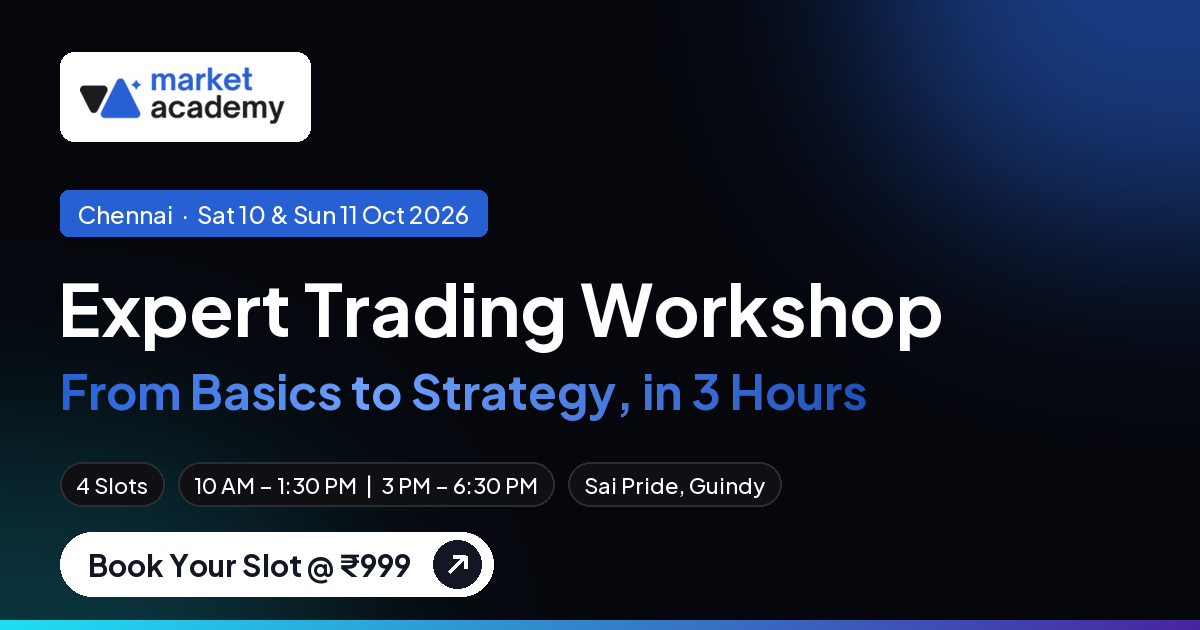
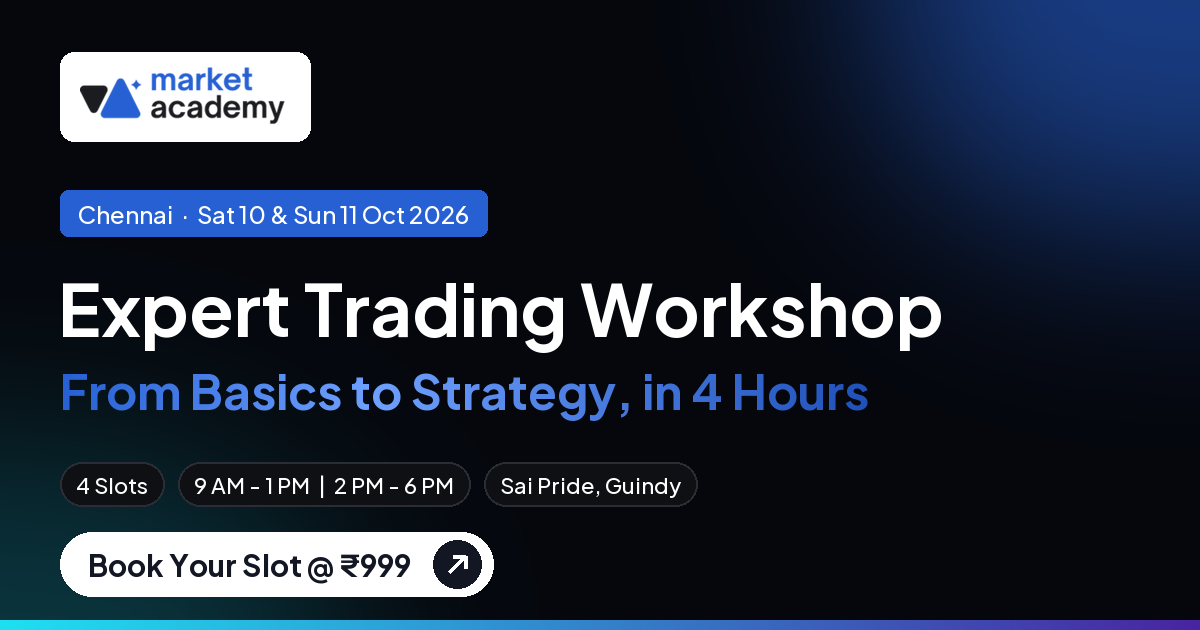
Make the workshop 4 hours: slots 9 AM - 1 PM and 2 PM - 6 PM
- Slots on Sat 10 / Sun 11 Oct 2026 move to 09:00-13:00 and 14:00-18:00
- "3 hours" copy, stats, FAQ, sticky bar, venue, meta tags, JSON-LD and
  the share image updated to 4 hours
- Per-slot ticket type IDs now come from VITE_TICKET_TYPE_* env vars;
  .env.example rewritten as a fill-in guide for the backend keys

Changed region(s): [[0.1542, 0.7238, 0.6475, 0.8143], [0.555, 0.6032, 0.74, 0.6635]]

diff --git a/index.html b/index.html
@@ -4,11 +4,11 @@
     <meta charset="UTF-8" />
     <meta name="viewport" content="width=device-width, initial-scale=1, maximum-scale=5" />
     <link rel="icon" href="/favicon.png" sizes="any" />
-    <title>Expert Trading Workshop in Chennai | ₹999 · 3 Hours | Market Academy</title>
-    <meta name="title" content="Expert Trading Workshop in Chennai | ₹999 · 3 Hours | Market Academy" />
+    <title>Expert Trading Workshop in Chennai | ₹999 · 4 Hours | Market Academy</title>
+    <meta name="title" content="Expert Trading Workshop in Chennai | ₹999 · 4 Hours | Market Academy" />
     <meta
       name="description"
-      content="Learn trading the structured way in a 3-hour expert workshop in Guindy, Chennai: trading basics, market & chart analysis, entry, exit, risk management and strategy selection. 4 slots on Oct 10 & 11. Booking fee ₹999."
+      content="Learn trading the structured way in a 4-hour expert workshop in Guindy, Chennai: trading basics, market & chart analysis, entry, exit, risk management and strategy selection. 4 slots on Oct 10 & 11. Booking fee ₹999."
     />
     <meta
       name="keywords"
@@ -24,16 +24,16 @@
     <meta property="og:type" content="website" />
     <meta property="og:url" content="%VITE_SITE_URL%" />
     <meta property="og:site_name" content="Market Academy" />
-    <meta property="og:title" content="Expert Trading Workshop in Chennai | ₹999 · 3 Hours" />
-    <meta property="og:description" content="From trading basics to strategy selection, in one structured 3-hour workshop. 4 slots on Oct 10 & 11 at Guindy, Chennai. Booking fee ₹999." />
+    <meta property="og:title" content="Expert Trading Workshop in Chennai | ₹999 · 4 Hours" />
+    <meta property="og:description" content="From trading basics to strategy selection, in one structured 4-hour workshop. 4 slots on Oct 10 & 11 at Guindy, Chennai. Booking fee ₹999." />
     <meta property="og:image" content="%VITE_SITE_URL%og-image.png" />
     <meta property="og:image:width" content="1200" />
     <meta property="og:image:height" content="630" />
     <meta property="og:image:alt" content="Expert Trading Workshop in Chennai by Market Academy" />
     <meta property="og:locale" content="en_IN" />
     <meta name="twitter:card" content="summary_large_image" />
-    <meta name="twitter:title" content="Expert Trading Workshop in Chennai | ₹999 · 3 Hours" />
-    <meta name="twitter:description" content="From trading basics to strategy selection, in one structured 3-hour workshop. 4 slots on Oct 10 & 11 at Guindy, Chennai." />
+    <meta name="twitter:title" content="Expert Trading Workshop in Chennai | ₹999 · 4 Hours" />
+    <meta name="twitter:description" content="From trading basics to strategy selection, in one structured 4-hour workshop. 4 slots on Oct 10 & 11 at Guindy, Chennai." />
     <meta name="twitter:image" content="%VITE_SITE_URL%og-image.png" />
     <meta name="twitter:site" content="@market_academy_" />
 
@@ -46,9 +46,9 @@
         "@context": "https://schema.org",
         "@type": "Event",
         "name": "Expert Trading Workshop - Chennai",
-        "description": "A 3-hour offline trading workshop covering trading basics, market analysis, chart analysis, entry, exit, risk management and strategy selection. Choose one of 4 slots.",
-        "startDate": "2026-10-10T10:00:00+05:30",
-        "endDate": "2026-10-11T18:30:00+05:30",
+        "description": "A 4-hour offline trading workshop covering trading basics, market analysis, chart analysis, entry, exit, risk management and strategy selection. Choose one of 4 slots.",
+        "startDate": "2026-10-10T09:00:00+05:30",
+        "endDate": "2026-10-11T18:00:00+05:30",
         "eventStatus": "https://schema.org/EventScheduled",
         "eventAttendanceMode": "https://schema.org/OfflineEventAttendanceMode",
         "location": {

diff --git a/src/config/event.js b/src/config/event.js
@@ -5,8 +5,8 @@
 export const EVENT = {
   name: 'Expert Trading Workshop',
   city: 'Chennai',
-  durationLabel: '3 Hours',
-  durationAdjective: '3-hour',
+  durationLabel: '4 Hours',
+  durationAdjective: '4-hour',
   // Booking fee in INR. The backend/Cashfree order decides the final charge;
   // this value is what the page displays.
   price: 999,
@@ -19,17 +19,19 @@ export const EVENT = {
 }
 
 // The four bookable slots. Times are IST.
-// ticketTypeId: the event_ticket_type_id for this slot on the backend. If the
-// backend uses one ticket type for every slot, leave these empty and set
-// VITE_DEFAULT_TICKET_TYPE_ID instead; the chosen slot is still sent in the payload.
+// ticketTypeId: the event_ticket_type_id for this slot on the backend, set via
+// VITE_TICKET_TYPE_* in the env file. If the backend uses one ticket type for every
+// slot, leave those empty and set VITE_DEFAULT_TICKET_TYPE_ID; the chosen slot is
+// still sent in the payload.
 // status: 'available' | 'filling' | 'soldout' (manual override); live seat counts
 // from the events API (when configured) take priority.
 // seatsLeft: number to show "N seats left", or null to hide the count.
+const env = import.meta.env
 export const SLOTS = [
-  { id: 'sat-morning', date: '2026-10-10', start: '10:00', end: '13:30', session: 'Morning Batch', ticketTypeId: '', status: 'available', seatsLeft: null },
-  { id: 'sat-afternoon', date: '2026-10-10', start: '15:00', end: '18:30', session: 'Afternoon Batch', ticketTypeId: '', status: 'available', seatsLeft: null },
-  { id: 'sun-morning', date: '2026-10-11', start: '10:00', end: '13:30', session: 'Morning Batch', ticketTypeId: '', status: 'available', seatsLeft: null },
-  { id: 'sun-afternoon', date: '2026-10-11', start: '15:00', end: '18:30', session: 'Afternoon Batch', ticketTypeId: '', status: 'available', seatsLeft: null },
+  { id: 'sat-morning', date: '2026-10-10', start: '09:00', end: '13:00', session: 'Morning Batch', ticketTypeId: env.VITE_TICKET_TYPE_SAT_MORNING || '', status: 'available', seatsLeft: null },
+  { id: 'sat-afternoon', date: '2026-10-10', start: '14:00', end: '18:00', session: 'Afternoon Batch', ticketTypeId: env.VITE_TICKET_TYPE_SAT_AFTERNOON || '', status: 'available', seatsLeft: null },
+  { id: 'sun-morning', date: '2026-10-11', start: '09:00', end: '13:00', session: 'Morning Batch', ticketTypeId: env.VITE_TICKET_TYPE_SUN_MORNING || '', status: 'available', seatsLeft: null },
+  { id: 'sun-afternoon', date: '2026-10-11', start: '14:00', end: '18:00', session: 'Afternoon Batch', ticketTypeId: env.VITE_TICKET_TYPE_SUN_AFTERNOON || '', status: 'available', seatsLeft: null },
 ]
 
 export const VENUE = {
@@ -76,12 +78,12 @@ export const FAQS = [
     a: 'Anyone who has been planning to learn trading: complete beginners, working professionals, and traders who want a more structured approach. We start from the basics, so no prior trading experience is needed.',
   },
   {
-    q: 'What will I learn in 3 hours?',
+    q: 'What will I learn in 4 hours?',
     a: 'The key concepts every trader needs, in a structured order: trading basics, market analysis, chart analysis, entry and exit planning, risk management and strategy selection.',
   },
   {
     q: 'What are the dates and slots?',
-    a: 'The workshop runs on Saturday, 10 October and Sunday, 11 October 2026. Each day has two slots: 10:00 AM to 1:30 PM and 3:00 PM to 6:30 PM. You choose one slot while booking.',
+    a: 'The workshop runs on Saturday, 10 October and Sunday, 11 October 2026. Each day has two slots: 9:00 AM to 1:00 PM and 2:00 PM to 6:00 PM. You choose one slot while booking.',
   },
   {
     q: 'How much does it cost and how do I pay?',

diff --git a/src/components/sections/Hero.jsx b/src/components/sections/Hero.jsx
@@ -68,11 +68,11 @@ export default function Hero() {
             <h1 className="mt-6 text-[25px] leading-[33px] font-semibold text-white sm:text-[28px] md:text-2xl lg:mt-8 lg:text-4xl lg:leading-[1.25] xl:text-[44px] xl:leading-[55px]">
               Learn Trading the Structured Way.
               <br className="lg:hidden" />{' '}
-              <span className="grad-text pe-2">From Basics to Strategy, in 3 Hours.</span>
+              <span className="grad-text pe-2">From Basics to Strategy, in 4 Hours.</span>
             </h1>
 
             <div className="mt-6 space-y-4 text-xs sm:text-sm lg:space-y-2">
-              <p className="font-medium text-white">3-Hour Expert Trading Workshop in Chennai. Booking Fee Just ₹{EVENT.price}!</p>
+              <p className="font-medium text-white">4-Hour Expert Trading Workshop in Chennai. Booking Fee Just ₹{EVENT.price}!</p>
               <p className="text-muted">
                 Been planning to learn trading for a long time? Don&apos;t miss this. Learn trading basics, market analysis, chart analysis, entry,
                 exit, risk management and strategy selection in one structured, expert-led session.
@@ -84,9 +84,9 @@ export default function Hero() {
                 Oct 10 &amp; 11, 2026
               </MetaItem>
               <MetaItem icon={ClockIcon} label="Slots" className="md:col-span-4">
-                10AM - 1:30PM
+                9AM - 1PM
                 <br />
-                3PM - 6:30PM
+                2PM - 6PM
               </MetaItem>
               <MetaItem icon={MapPinIcon} label="Venue" className="hidden md:col-span-4 md:block">
                 Guindy, Chennai

diff --git a/src/lib/slots.js b/src/lib/slots.js
@@ -7,10 +7,10 @@ export const slotEnd = (slot) => new Date(`${slot.date}T${slot.end}:00+05:30`)
 
 const fmt = (opts) => new Intl.DateTimeFormat('en-IN', { timeZone: TZ, ...opts })
 
-// "10:00 AM" / "3:00 PM"
+// "9:00 AM" / "2:00 PM"
 export const formatTime = (d) => fmt({ hour: 'numeric', minute: '2-digit', hour12: true }).format(d).toUpperCase()
 
-// "10AM" / "1:30PM": compact form used in the sticky bar, minutes dropped when :00
+// "9AM" / "1:30PM": compact form used in the sticky bar, minutes dropped when :00
 export const formatTimeShort = (d) => {
   const t = fmt({ hour: 'numeric', minute: '2-digit', hour12: true }).format(d).toUpperCase().replace(/\s/g, '')
   return t.replace(':00', '')
@@ -27,7 +27,7 @@ export const formatDayMonth = (slot, style = 'short') =>
     ? fmt({ day: 'numeric', month: 'short' }).format(slotStart(slot))
     : `${fmt({ month: 'long' }).format(slotStart(slot))} ${fmt({ day: 'numeric' }).format(slotStart(slot))}`
 
-// "Sat, 10 Oct · 10:00 AM - 1:30 PM"
+// "Sat, 10 Oct · 9:00 AM - 1:00 PM"
 export const slotLabel = (slot) => `${formatWeekday(slot, 'short')}, ${formatDayMonth(slot)} · ${slotTimeRange(slot)}`
 
 // Slots grouped by date, preserving config order

diff --git a/src/components/sections/Venue.jsx b/src/components/sections/Venue.jsx
@@ -57,9 +57,9 @@ export default function Venue() {
                 <div className="space-y-1 text-sm font-medium text-white md:text-base">
                   <p>October 10 (Saturday) &amp; October 11 (Sunday)</p>
                   <p className="text-sm text-muted">
-                    Morning: 10:00 AM to 1:30 PM
+                    Morning: 9:00 AM to 1:00 PM
                     <br />
-                    Afternoon: 3:00 PM to 6:30 PM
+                    Afternoon: 2:00 PM to 6:00 PM
                   </p>
                 </div>
                 <div className="sm:text-right">

diff --git a/src/components/sections/WhyWorkshop.jsx b/src/components/sections/WhyWorkshop.jsx
@@ -30,7 +30,7 @@ export default function WhyWorkshop() {
             <span className="grad-text">Trading Class</span>
           </h2>
           <p className="mx-auto mt-2 max-w-4xl text-sm leading-5 text-muted md:text-lg md:leading-7">
-            No random tips, no shortcuts. In three focused hours, experts walk you through the concepts every trader needs, in a clear,
+            No random tips, no shortcuts. In four focused hours, experts walk you through the concepts every trader needs, in a clear,
             structured order.
           </p>
         </div>

diff --git a/src/components/sections/StickyBar.jsx b/src/components/sections/StickyBar.jsx
@@ -15,7 +15,7 @@ export default function StickyBar() {
         <div className="flex min-h-9 items-center justify-between gap-3">
           <div className="hidden text-[13px] leading-5 font-semibold text-sticky-ink sm:block">
             <p>October 10 &amp; 11 (Sat &amp; Sun)</p>
-            <p>10AM - 1:30PM · 3PM - 6:30PM</p>
+            <p>9AM - 1PM · 2PM - 6PM</p>
           </div>
           <p className="text-xs leading-4 font-semibold text-sticky-ink sm:hidden">
             Oct 10 &amp; 11

diff --git a/src/components/sections/Benefits.jsx b/src/components/sections/Benefits.jsx
@@ -10,7 +10,7 @@ const BENEFITS = [
 
 const SNAPSHOT = [
   [ClockIcon, 'Duration', `${EVENT.durationLabel}, offline`],
-  [CalendarClockIcon, 'Slots', 'Sat 10 & Sun 11 Oct · 10AM / 3PM'],
+  [CalendarClockIcon, 'Slots', 'Sat 10 & Sun 11 Oct · 9AM / 2PM'],
   [MapPinIcon, 'Venue', 'Sai Pride, Guindy, Chennai'],
 ]
 

diff --git a/src/components/sections/Stats.jsx b/src/components/sections/Stats.jsx
@@ -1,5 +1,5 @@
 const STATS = [
-  ['3 Hours', 'Focused Expert Session'],
+  ['4 Hours', 'Focused Expert Session'],
   ['4 Slots', 'Pick What Suits You'],
   ['2 Days', 'Sat 10 & Sun 11 Oct'],
   ['₹999', 'Booking Fee'],

diff --git a/README.md b/README.md
@@ -1,10 +1,10 @@
 # Market Academy: ₹999 Expert Trading Workshop (Chennai)
 
-Landing page for Market Academy's 3-hour offline Expert Trading Workshop,
+Landing page for Market Academy's 4-hour offline Expert Trading Workshop,
 built in **React + Tailwind CSS** with the same design system, behaviour and booking flow as
 [marketacademy.in/price-action-masterclass](https://marketacademy.in/price-action-masterclass/).
 
-- **Dates:** Sat 10 Oct & Sun 11 Oct 2026, 4 slots: 10:00 AM - 1:30 PM and 3:00 PM - 6:30 PM each day
+- **Dates:** Sat 10 Oct & Sun 11 Oct 2026, 4 slots: 9:00 AM - 1:00 PM and 2:00 PM - 6:00 PM each day
 - **Venue:** Sai Pride, A24, 3rd Phase, Thiru Vi Ka Industrial Estate, SIDCO Industrial Estate, Ekkaduthangal, Guindy, Chennai 600032
 - **Fee:** ₹999 booking fee, paid through Cashfree
 
@@ -46,8 +46,8 @@ Same flow as the Price Action Masterclass page:
 
 - An event record for this workshop (`VITE_EVENT_ID`, slug `VITE_EVENT_SLUG`) priced at ₹999.
 - Slot handling, either:
-  - **one ticket type per slot** → put each `event_ticket_type_id` in `SLOTS[].ticketTypeId`
-    in `src/config/event.js` (also enables live seat counts per slot), **or**
+  - **one ticket type per slot** → set `VITE_TICKET_TYPE_SAT_MORNING`, `…_SAT_AFTERNOON`,
+    `…_SUN_MORNING`, `…_SUN_AFTERNOON` (also enables live seat counts per slot), **or**
   - **one shared ticket type** → set `VITE_DEFAULT_TICKET_TYPE_ID` and read the chosen slot from
     the payload's `slot` object.
 - `return_url` from the payload honoured as the Cashfree return URL.
@@ -63,7 +63,7 @@ Payload sent to the register webhook (before encryption):
   "return_url": "https://…/?payment_status=processing&order_id={order_id}",
   "booked_by": { "name": "…", "mobile_number": "9876543210", "email_id": "…" },
   "attendees": [{ "first_name": "…", "last_name": "", "mobile_number": "…", "email_id": "…" }],
-  "slot": { "slot_id": "sat-morning", "date": "2026-10-10", "start_time": "10:00", "end_time": "13:30", "label": "Sat, 10 Oct · 10:00 AM - 1:30 PM" },
+  "slot": { "slot_id": "sat-morning", "date": "2026-10-10", "start_time": "09:00", "end_time": "13:00", "label": "Sat, 10 Oct · 9:00 AM - 1:00 PM" },
   "marketing": { "source": "website", "campaign": "?campaign= | ?utm_campaign= | website", "landing_page": "full URL incl. UTMs", "fbc": "_fbc", "fbp": "_fbp" }
 }
 ```
